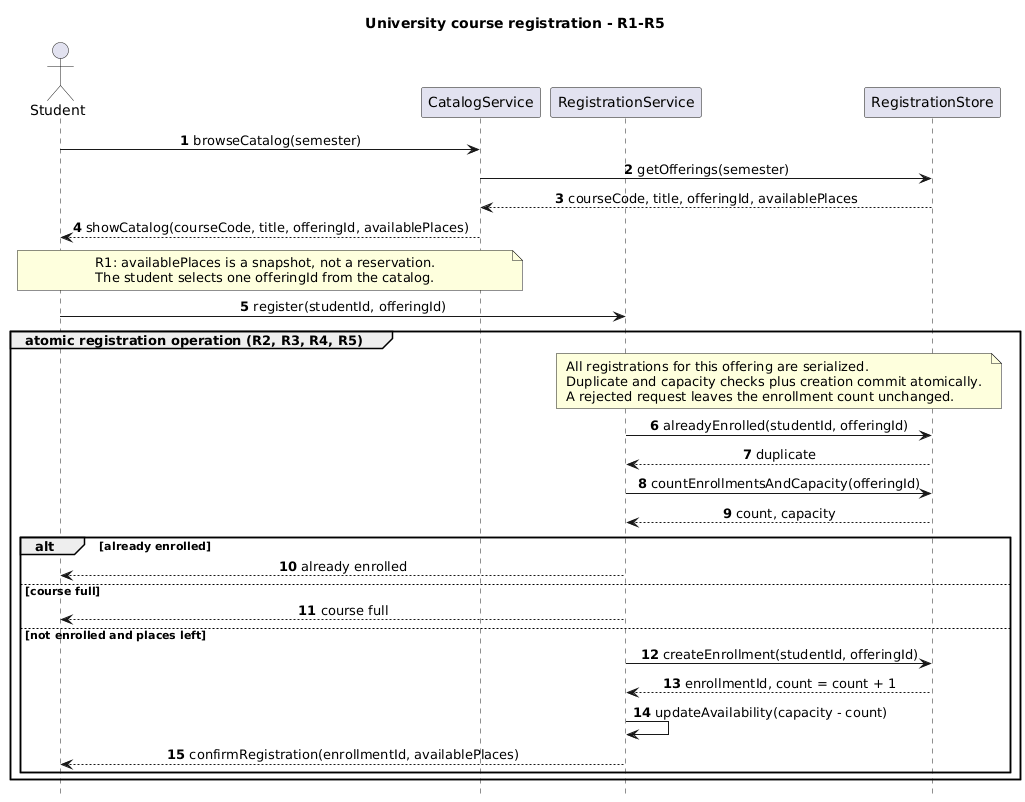
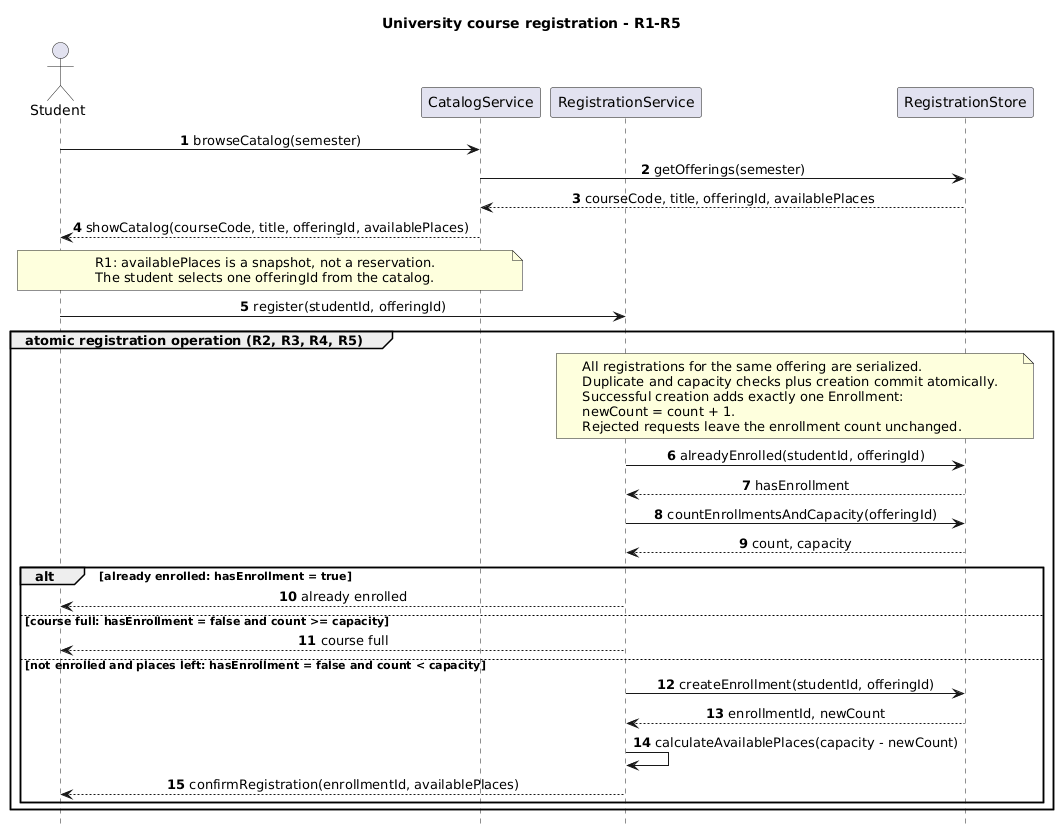
sis-02: revised models and validation

diff --git a/sis-02/finalize_declaration.py b/sis-02/finalize_declaration.py
@@ -1,0 +1,24 @@
+"""Update only submission.yml using the real current Git commit and checker results."""
+import json
+from pathlib import Path
+import re
+import subprocess
+import sys
+
+root = Path(__file__).resolve().parent
+run = subprocess.run([sys.executable, 'tests/check_sis.py', '--json'], cwd=root, capture_output=True, text=True)
+result = json.loads(run.stdout)
+if run.returncode != 0:
+    print('Checker changed or failed. Review its output before declaring:')
+    print(run.stdout)
+    raise SystemExit(1)
+commit = subprocess.check_output(['git', 'rev-parse', '--short', 'HEAD'], cwd=root, text=True).strip()
+path = root / 'submission.yml'
+text = path.read_text(encoding='utf-8')
+for field, value in [('pass', result['counts']['PASS']), ('fail', result['counts']['FAIL']), ('error', result['counts']['ERROR'])]:
+    text = re.sub(r'^  ' + field + r':.*$', '  ' + field + ': ' + str(value), text, flags=re.M)
+text = re.sub(r'^  commit:.*$', '  commit: "' + commit + '"', text, flags=re.M)
+text = '\n'.join(line for line in text.splitlines() if not line.startswith('# Draft declaration:') and not line.startswith('# checker.commit is deliberately absent:')) + '\n'
+path.write_text(text, encoding='utf-8')
+print('Declared actual checker commit:', commit)
+print('Run: python tests/validate_submission.py')

diff --git a/sis-02/AI_USAGE.md b/sis-02/AI_USAGE.md
@@ -1,21 +1,28 @@
 # AI Usage Disclosure — SIS 02
 
-Technical draft prepared with ChatGPT Work on 2026-10-18. Model: not displayed.
-
 | Tool | Exact model / plan | Used for | Which sections and files it touched |
 | --- | --- | --- | --- |
-| ChatGPT Work | not displayed | Explanation, translation, requirements draft, UML sources, rendering, assistant walkthroughs, proposed review decisions, documentation checks and packaging | report.md, models/, prompts/, submission.yml and handoff instructions |
+| ChatGPT Work | not displayed | Initial guidance and translation; requirements, UML, critique, revision, prose, assistant walkthroughs, source checks and packaging | report.md, models/, prompts/, submission.yml and PR_DESCRIPTION.md |
 
-**Three parts of this assignment are yours alone. All three were written without AI assistance:** no. The initial meaning came from the student's Kazakh answers after AI guidance and was translated by AI; walkthroughs were traced by AI; the reflection is an AI-expanded English draft based on the student's actual answers, including the Software Engineering example and AI help with the conceptual distinction; it still requires student rewriting. The modeling explanation is also an AI draft requiring student rewriting.
+**Three parts of this assignment are yours alone. All three were written without AI assistance:** no. The initial meaning came from the student's Kazakh answers after AI guidance and was translated by AI. The assistant traced walkthroughs and drafted the modeling explanation. The reflection was expanded in English from actual student answers and still requires student rewriting.
 
-**The files in models/original/ are the assistant's Prompt B output, unedited:** no. They are the assistant's first direct-request drafts, unchanged. Prompt B has not been executed.
+**The files in models/original/ are the assistant's Prompt B output, unedited:** yes. The genuine Prompt B blocks are preserved separately from the finals.
 
-**Every source in section 13 is one I opened and read myself:** not confirmed for the student; sources were opened by the assistant.
+**Every source in section 13 is one I opened and read myself:** not confirmed for the student. The assistant opened the documentation; the student must read it before claiming personal verification.
 
-**Everything I submitted, I can explain and defend without consulting the assistant:** student verification pending. This package has not been submitted.
+**Everything I submitted, I can explain and defend without consulting the assistant:** student verification pending. No submission has been performed by the assistant.
 
-**Anything I accepted from the AI without fully understanding it:** the student accepted the Course-to-CourseOffering multiplicity choice; other decisions remain pending.
+**Anything I accepted from the AI without fully understanding it:** the student accepted all three critique proposals; a detailed independent defense has not yet been provided.
+
+## Workflow deviations
+
+- Initial push 5fc8b60 already included an AI technical draft. Scope meaning came from the student, but guidance and English translation were assisted.
+- Prompt C was executed in the same chat, not a new chat, and used the earlier behaviorally equivalent draft.
+- Prompt D initially contained outdated pending-approval wording. The assistant asked for decisions, the student explicitly accepted C1–C3, then the revision was returned. The report preserves this actual sequence.
+- Final Boolean naming changed from duplicate to hasEnrollment consistently, preserving the accepted guard logic and avoiding checker keyword ambiguity.
+- No student signature, source reading, independent authorship or Git chronology is fabricated.
 
 Student: Assylbek Uzakbayev
-Signature: not signed
+Student ID: 24B032082
 Date: 2026-10-18
+Signature: not signed

diff --git a/sis-02/PR_DESCRIPTION.md b/sis-02/PR_DESCRIPTION.md
@@ -1,19 +1,19 @@
 ## What I built
 
-An AI-assisted technical draft of course registration requirements, sequence and domain class diagrams, traceability and assistant walkthroughs. This PR is unfinished: required A–D exchange evidence is absent and the reflection is an AI-assisted draft requiring student rewriting. Initial commit chronology has not been verified.
+Course registration requirements and two PlantUML models covering R1–R5, rendered original and final diagrams, traceability, T1–T4 model walkthroughs and a last-place concurrency trace. The shape checker reports 44 PASS, 0 FAIL, 0 ERROR. This does not certify model quality or compliance with the authorship requirements.
 
 ## AI tools used
 
-ChatGPT Work, model not displayed. Details and limitations are in AI_USAGE.md and report.md.
+ChatGPT Work, model not displayed. Complete A–D exchanges and workflow deviations are recorded in report.md. AI also drafted the explanation and walkthroughs and expanded the reflection from my Kazakh answers; these are not independently authored student prose.
 
 ## What the AI got wrong
 
-The direct-request drafting process did not follow the assignment's required staged exchanges. The assistant walkthroughs, proposed review decisions and explanation must not be represented as independently authored student work.
+The initial draft preceded the staged process and was included in commit 5fc8b60. Prompt C occurred in the same chat rather than a new chat. Prompt D initially contained outdated pending approval wording; I subsequently accepted C1–C3 before revision. The final models clarify guard conditions, derived availability and the returned enrollment count.
 
 ## Time spent
 
-Student must enter actual time spent before submission.
+The assisted session began at approximately 22:38 on 2026-10-18. Actual end time and total duration should be recorded when submitting.
 
 ## What I would do differently
 
-Student must enter a personal response after reviewing the models. Complete the required workflow, source reading and reflection before marking this PR ready.
+The improvement proposed during this assisted session is to follow the required staged workflow from the beginning, use a fresh critique chat, and write the explanation, walkthroughs and reflection independently. AI involvement and deviations remain disclosed in AI_USAGE.md.
